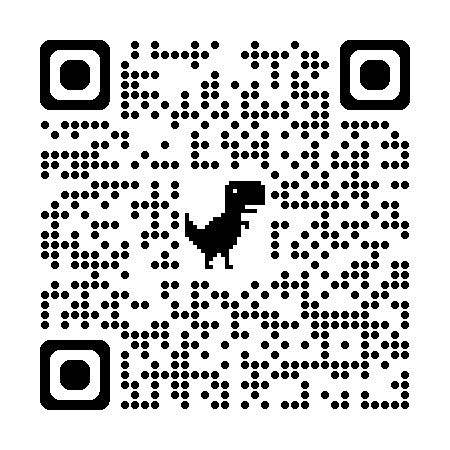
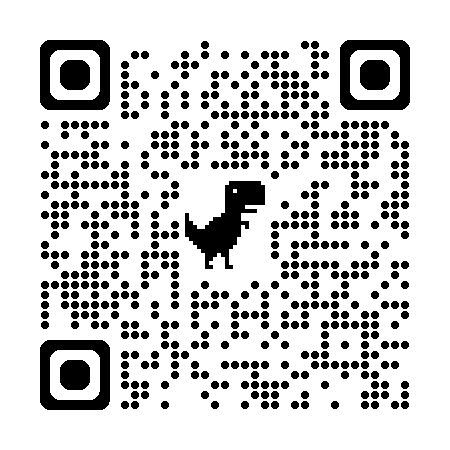
Update learning hub to science and social practice links

diff --git a/board.html b/board.html
@@ -751,10 +751,9 @@
                 <div class="w-full h-full flex flex-col items-center justify-center">
                     <h2 class="text-5xl font-bold text-white tracking-widest"><i class="fa-solid fa-book-open-reader mr-5 text-[#f6d365]"></i>學習天地</h2>
                     <p class="mt-4 mb-8 text-2xl text-white/75">掃描 QR Code，或點選卡片在新分頁開啟</p>
-                    <div id="learning-resources" class="grid grid-cols-3 gap-8 w-full max-w-6xl">
-                        <a href="https://happyread.kh.edu.tw/readerquiz/" target="_blank" rel="noopener noreferrer" aria-label="愛閱網（在新分頁開啟）" class="glass-panel rounded-[2rem] p-6 flex flex-col items-center transition-colors hover:bg-white/15 focus-visible:outline focus-visible:outline-4 focus-visible:outline-[#f6d365]"><div class="w-full aspect-square rounded-2xl bg-white p-3"><img src="assets/iread-qr.png" alt="愛閱網 QR Code" class="w-full h-full object-contain"></div><h3 class="mt-5 text-3xl font-black text-[#f6d365]">愛閱網</h3><p class="mt-3 text-xl font-bold text-white/75"><i class="fa-solid fa-arrow-up-right-from-square mr-2" aria-hidden="true"></i>點選開啟</p></a>
-                        <a href="https://idiom-quest-suyun.suyungsheng.chatgpt.site/" target="_blank" rel="noopener noreferrer" aria-label="成語闖關（在新分頁開啟）" class="glass-panel rounded-[2rem] p-6 flex flex-col items-center transition-colors hover:bg-white/15 focus-visible:outline focus-visible:outline-4 focus-visible:outline-[#84fab0]"><div class="w-full aspect-square rounded-2xl bg-white p-3"><img src="assets/idiom-quest-qr.png" alt="成語闖關 QR Code" class="w-full h-full object-contain"></div><h3 class="mt-5 text-3xl font-black text-[#84fab0]">成語闖關</h3><p class="mt-3 text-xl font-bold text-white/75"><i class="fa-solid fa-arrow-up-right-from-square mr-2" aria-hidden="true"></i>點選開啟</p></a>
-                        <a href="https://science-115-first-midterm-quiz.suyungsheng.chatgpt.site/" target="_blank" rel="noopener noreferrer" aria-label="理化習作（在新分頁開啟）" class="glass-panel rounded-[2rem] p-6 flex flex-col items-center transition-colors hover:bg-white/15 focus-visible:outline focus-visible:outline-4 focus-visible:outline-[#8fd3f4]"><div class="w-full aspect-square rounded-2xl bg-white p-3"><img src="assets/science-workbook-qr.png" alt="理化習作 QR Code" class="w-full h-full object-contain"></div><h3 class="mt-5 text-3xl font-black text-[#8fd3f4]">理化習作</h3><p class="mt-3 text-xl font-bold text-white/75"><i class="fa-solid fa-arrow-up-right-from-square mr-2" aria-hidden="true"></i>點選開啟</p></a>
+                    <div id="learning-resources" class="grid grid-cols-2 gap-8 w-full max-w-4xl">
+                        <a href="https://qfm-11407.github.io/exam_115/science1150102.html" target="_blank" rel="noopener noreferrer" aria-label="理化習作（在新分頁開啟）" class="glass-panel rounded-[2rem] p-6 flex flex-col items-center transition-colors hover:bg-white/15 focus-visible:outline focus-visible:outline-4 focus-visible:outline-[#8fd3f4]"><div class="w-full aspect-square rounded-2xl bg-white p-3"><img src="assets/science-workbook-qr.png?v=20261015" alt="理化習作 QR Code" class="w-full h-full object-contain"></div><h3 class="mt-5 text-3xl font-black text-[#8fd3f4]">理化習作</h3><p class="mt-3 text-xl font-bold text-white/75"><i class="fa-solid fa-arrow-up-right-from-square mr-2" aria-hidden="true"></i>點選開啟</p></a>
+                        <a href="https://qfm-11407.github.io/exam_115/social1150102.html" target="_blank" rel="noopener noreferrer" aria-label="社會練習（在新分頁開啟）" class="glass-panel rounded-[2rem] p-6 flex flex-col items-center transition-colors hover:bg-white/15 focus-visible:outline focus-visible:outline-4 focus-visible:outline-[#84fab0]"><div class="w-full aspect-square rounded-2xl bg-white p-3"><img src="assets/social-practice-qr.png?v=20261015" alt="社會練習 QR Code" class="w-full h-full object-contain"></div><h3 class="mt-5 text-3xl font-black text-[#84fab0]">社會練習</h3><p class="mt-3 text-xl font-bold text-white/75"><i class="fa-solid fa-arrow-up-right-from-square mr-2" aria-hidden="true"></i>點選開啟</p></a>
                     </div>
                 </div>
             </div>
